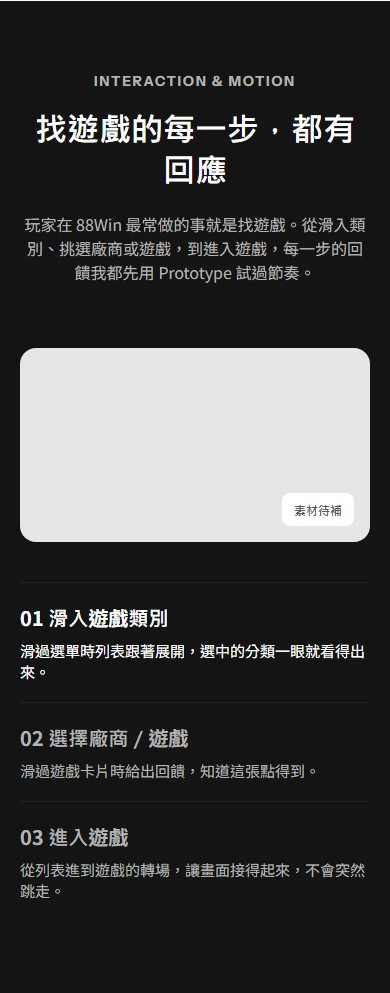
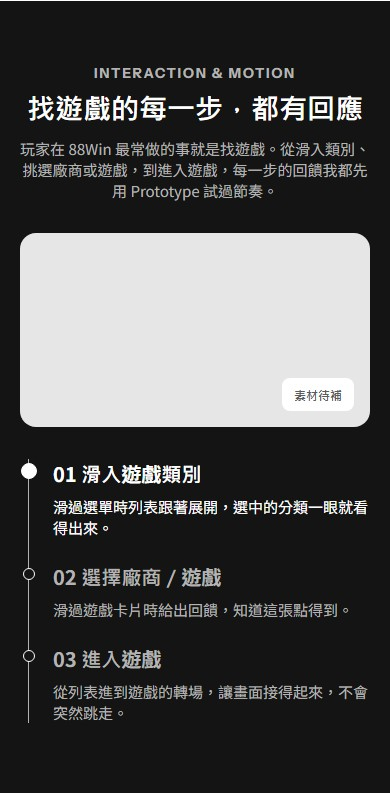
fix: align mobile case template with figma

diff --git a/tests/e2e/smoke.spec.ts b/tests/e2e/smoke.spec.ts
@@ -148,40 +148,20 @@ test('home renders the complete ordered project index', async ({ page }) => {
 });
 
 test('home starts no media requests before load', async ({ page }) => {
-  await page.addInitScript(() => {
-    window.addEventListener(
-      'load',
-      () => {
-        const navigation = performance.getEntriesByType(
-          'navigation',
-        )[0] as PerformanceNavigationTiming;
-        (
-          window as typeof window & { __mediaRequestsBeforeLoad?: string[] }
-        ).__mediaRequestsBeforeLoad = performance
-          .getEntriesByType('resource')
-          .filter(
-            (entry) =>
-              new URL(entry.name).pathname.startsWith('/media/') &&
-              entry.startTime < navigation.loadEventStart,
-          )
-          .map((entry) => entry.name);
-      },
-      { once: true },
-    );
+  let didLoad = false;
+  const mediaRequestsBeforeLoad: string[] = [];
+  page.on('load', () => {
+    didLoad = true;
+  });
+  page.on('request', (request) => {
+    if (!didLoad && new URL(request.url()).pathname.startsWith('/media/')) {
+      mediaRequestsBeforeLoad.push(request.url());
+    }
   });
 
   await page.goto('/');
 
-  expect(
-    await page.evaluate(
-      () =>
-        (
-          window as typeof window & {
-            __mediaRequestsBeforeLoad?: string[];
-          }
-        ).__mediaRequestsBeforeLoad ?? [],
-    ),
-  ).toEqual([]);
+  expect(mediaRequestsBeforeLoad).toEqual([]);
 });
 
 test('home uses the approved copy, links, and card assets', async ({
@@ -510,7 +490,10 @@ test('390 case hero and next project match the mobile Figma geometry', async ({
   const showcaseBox = await showcase.boundingBox();
 
   expect(heroBox?.height).toBeCloseTo(784, 0);
+  await expect(backLink).toHaveCSS('justify-self', 'center');
   expect((backBox?.x ?? 0) + (backBox?.width ?? 0) / 2).toBeCloseTo(195, 0);
+  await expect(hero.locator('h1')).toHaveCSS('font-size', '76px');
+  await expect(hero.locator('h1')).toHaveCSS('letter-spacing', '-3.04px');
   expect(
     await headline.evaluate((node) => node.scrollWidth <= node.clientWidth),
   ).toBe(true);
@@ -557,18 +540,20 @@ test('390 case hero and next project match the mobile Figma geometry', async ({
   ).toBe(true);
 });
 
-test('360 case hero and next project stay within their containers', async ({
+test('360 home and case pages have no horizontal overflow', async ({
   page,
 }, testInfo) => {
   test.skip(testInfo.project.name !== 'webkit-iphone', 'Mobile-only layout.');
   await page.setViewportSize({ width: 360, height: 800 });
-  await page.goto('/work/88win/');
-
-  expect(
-    await page.evaluate(
-      () => document.documentElement.scrollWidth === window.innerWidth,
-    ),
-  ).toBe(true);
+  for (const route of ['/', '/work/88win/']) {
+    await page.goto(route);
+    expect(
+      await page.evaluate(
+        () => document.documentElement.scrollWidth === window.innerWidth,
+      ),
+      `${route} should not overflow horizontally`,
+    ).toBe(true);
+  }
 
   for (const selector of [
     '.case-hero .case-container',
@@ -587,6 +572,49 @@ test('360 case hero and next project stay within their containers', async ({
     });
     expect(failures).toBe(0);
   }
+});
+
+test('390 case sections match the Figma child-frame heights', async ({
+  page,
+}, testInfo) => {
+  test.skip(testInfo.project.name !== 'webkit-iphone', 'Mobile-only layout.');
+  await page.setViewportSize({ width: 390, height: 844 });
+  await page.goto('/work/88win/');
+
+  const expectedSections = [
+    ['Hero', 784],
+    ['Overview', 791],
+    ['Key Screens', 740],
+    ['Mobile / RWD', 717],
+    ['Interaction & Motion', 792],
+    ['Details', 3461],
+    ['Visual Extension', 410],
+    ['Links', 659],
+    ['Next Project', 530],
+  ] as const;
+  const actualHeights = await page
+    .locator('.case-study > .case-section')
+    .evaluateAll((sections) =>
+      sections.map((section) => section.getBoundingClientRect().height),
+    );
+
+  expect(actualHeights).toHaveLength(expectedSections.length);
+  for (const [index, [name, expectedHeight]] of expectedSections.entries()) {
+    const actualHeight = actualHeights[index] ?? Number.NaN;
+    expect(
+      Math.abs(actualHeight - expectedHeight),
+      `${name}: expected ${expectedHeight} ±1 px, received ${actualHeight}`,
+    ).toBeLessThanOrEqual(1);
+  }
+});
+
+test('390 Hwa Fong uses its project title size', async ({ page }, testInfo) => {
+  test.skip(testInfo.project.name !== 'webkit-iphone', 'Mobile-only layout.');
+  await page.setViewportSize({ width: 390, height: 844 });
+  await page.goto('/work/hwa-fong/');
+  const title = page.locator('.case-hero h1');
+  await expect(title).toHaveCSS('font-size', '56px');
+  await expect(title).toHaveCSS('letter-spacing', '-2.24px');
 });
 
 test('1920 case headings and stats stay on one line', async ({

diff --git a/src/styles/case.css b/src/styles/case.css
@@ -114,6 +114,7 @@
 .hero-copy h1 {
   font-family: var(--font-family-display);
   font-size: var(--font-size-case-title);
+  letter-spacing: -0.04em;
   line-height: var(--line-height-body-tight);
 }
 
@@ -724,7 +725,12 @@ figcaption strong {
 }
 
 @media (width < 48rem) {
+  .case-section:where(:not(.tone-media, .case-hero, .next-project)) {
+    padding-block: var(--space-16);
+  }
+
   .case-hero {
+    min-height: min(784px, 201.0256vw);
     padding-block: var(--space-3) 0;
   }
 
@@ -759,6 +765,7 @@ figcaption strong {
 
   .case-hero .hero-showcase {
     width: 100%;
+    margin-block-end: calc(-1 * var(--space-3));
   }
 
   .case-hero .media-frame {
@@ -767,6 +774,22 @@ figcaption strong {
 
   .hero-copy h1 {
     line-height: 1;
+  }
+
+  .hero-copy h1.has-mobile-title-size {
+    font-size: attr(
+      data-title-size-mobile px,
+      var(--font-size-case-title-mobile)
+    );
+  }
+
+  /* Fallback for engines that do not yet support typed attr() values. */
+  .hero-copy h1[data-title-size-mobile='76'] {
+    font-size: 76px;
+  }
+
+  .hero-copy h1[data-title-size-mobile='56'] {
+    font-size: 56px;
   }
 
   .hero-headline {
@@ -870,6 +893,149 @@ figcaption strong {
 
   .swipe-row > figure {
     scroll-snap-align: start;
+  }
+
+  .section-intro {
+    gap: var(--space-2-5);
+    margin-block-end: var(--space-12);
+  }
+
+  .section-intro h2 {
+    font-size: 1.75rem;
+  }
+
+  .section-intro .section-subtitle {
+    font-size: 0.9375rem;
+  }
+
+  .caption-grid,
+  .mobile-panels,
+  .details-grid {
+    margin-block-start: var(--space-5);
+  }
+
+  .overview .case-container {
+    gap: var(--space-6);
+  }
+
+  .overview-story {
+    gap: var(--space-6);
+  }
+
+  .overview article {
+    gap: var(--space-3);
+    padding-block-start: var(--space-4);
+  }
+
+  .story-title {
+    font-size: 1.375rem;
+  }
+
+  figcaption {
+    gap: var(--space-1);
+    padding-block-start: var(--space-3);
+  }
+
+  .mobile-rwd {
+    min-height: min(717px, 183.8462vw);
+    padding-block-end: var(--space-4);
+  }
+
+  .interaction-motion .section-intro {
+    margin-block-end: var(--space-8);
+  }
+
+  .interaction-motion motion-steps {
+    gap: var(--space-8);
+  }
+
+  .details .section-intro {
+    margin-block-end: var(--space-10);
+  }
+
+  .details-grid {
+    gap: var(--space-8);
+  }
+
+  .detail-card figcaption {
+    padding: var(--space-6);
+  }
+
+  .case-links .section-intro {
+    margin-block-end: var(--space-9);
+  }
+
+  .link-cards {
+    gap: var(--space-3);
+  }
+
+  .link-card {
+    gap: var(--space-3);
+  }
+
+  .overview {
+    min-height: min(791px, 202.8205vw);
+  }
+
+  .key-screens {
+    min-height: min(740px, 189.7436vw);
+  }
+
+  .key-screens .section-intro {
+    margin-block-end: var(--space-8);
+  }
+
+  .key-screens .caption-grid {
+    margin-block-start: var(--space-4);
+  }
+
+  .interaction-motion {
+    min-height: min(792px, 203.0769vw);
+  }
+
+  .details {
+    min-height: min(3461px, 887.4359vw);
+  }
+
+  .case-links {
+    min-height: min(659px, 168.9744vw);
+  }
+
+  .motion-tabs {
+    position: relative;
+    margin-inline-start: var(--space-2);
+    border-inline-start: var(--header-border-width) solid
+      var(--color-text-on-inverse-muted);
+  }
+
+  .motion-tabs button {
+    position: relative;
+    padding: 0 0 var(--space-6) var(--space-6);
+    border-block-start: 0;
+  }
+
+  .motion-tabs button:last-child {
+    padding-block-end: 0;
+  }
+
+  .motion-tabs button::before {
+    position: absolute;
+    inset-block-start: 0.375rem;
+    inset-inline-start: calc(var(--size-motion-marker) / -2);
+    width: var(--size-motion-marker);
+    height: var(--size-motion-marker);
+    border: var(--header-border-width) solid var(--color-text-on-inverse);
+    border-radius: var(--radius-pill);
+    background: var(--color-bg-inverse);
+    content: '';
+  }
+
+  .motion-tabs button[aria-selected='true']::before {
+    inset-block-start: 0.25rem;
+    inset-inline-start: -0.5rem;
+    width: var(--space-4);
+    height: var(--space-4);
+    background: var(--color-text-on-inverse);
   }
 
   .hero-showcase.layout-isometric,

diff --git a/src/content.config.ts b/src/content.config.ts
@@ -139,6 +139,7 @@ const projects = defineCollection({
       hero: z.object({
         eyebrow: z.string().min(1),
         title: z.string().min(1),
+        titleSizeMobile: z.number().positive().optional(),
         headline: z.string().min(1),
         subtitle: z.string().min(1),
         stats: z.tuple([stat, stat, stat, stat]),

diff --git a/docs/HANDOFF.md b/docs/HANDOFF.md
@@ -2,8 +2,8 @@
 
 > Every agent reads this first and updates it before ending a session in which project state changed.
 
-## Status (2026-10-31)
-- **Phase**: M1 Home is done (PR #10). **M2 (case template + 88Win) is done (PR #14)**. The fidelity follow-up merged (PR #17). **M3 Hwa Fong Tire is in review** on `feat/m3-hwa-fong`.
+## Status (2026-11-01)
+- **Phase**: M1 Home is done (PR #10). **M2 (case template + 88Win) is done (PR #14)**. The first fidelity follow-up merged (PR #17). **M3 Hwa Fong Tire is done (PR #21)**, and play-once video behavior is done (PR #23). The 390 case-template fidelity follow-up is in review on `fix/case-template-fidelity`.
 - **Process change (2026-10-31)**: Claude writes a page spec sheet before implementation, and every UI PR includes a Figma vs page table ([`docs/specs/README.md`](specs/README.md)). The Product Owner's media export list is [`docs/ASSETS.md`](ASSETS.md).
 - **Where to see the latest site**: **`https://staging-portfolio-2026.kimbluesoul.workers.dev/`**. `staging` mirrors `main` automatically on every merge (ADR-0011 amendment).
 - **Production** (`https://portfolio-2026.kimbluesoul.workers.dev/`) intentionally still shows the M0 build. Production deploys are blocked until no `TODO(CONTENT)` remains (Product Owner decision A, 2026-10-30). Until launch, **a red "Workers Builds" check on `main` is expected and is not a bug.**
@@ -18,10 +18,8 @@ During M1 the roles were temporarily swapped: Claude implemented the review fixe
 **ChatGPT, before starting M2:** your local checkout (`Documents/Codex/2026-10-29/.../work/portfolio-2026`) may still hold the old uncommitted M1 files. Run `git fetch origin`, `git checkout main`, and `git reset --hard origin/main` (or use a fresh clone). A backup of those files exists in `%LOCALAPPDATA%\Temp\pf-backup`.
 
 ## Next owner
-1. **Claude**: review the Hwa Fong Tire content PR (`feat/m3-hwa-fong`). Its media remains `pending`; the PR records the template-level visual differences without changing architecture.
-2. **ChatGPT** (after Hwa Fong, separate PR `feat/video-play-once`): implement ADR-0013 / ARCHITECTURE v1.7. Change `<loop-video>` and `<motion-steps>` to play once on view, Home cards to the delivered videos (already in `public/media/*/card*.mp4` with posters), and the 88Win featured composition (§9.5). Replace the old "never plays" E2E test (§16.2).
-3. **ChatGPT** (after the video PR, `fix/case-template-fidelity`): the template items from the PR #17 / #21 reviews. Implement `hero.titleSizeMobile` and −0.04em title tracking (ARCHITECTURE §10 v1.8; values in the spec sheets: 88Win 76, Hwa Fong 56), keep the 390 back link centred, add the mobile Motion vertical rail, and size 390 section spacing from the `475:953` child frames. Add a 360 × 800 no-overflow E2E for the case page.
-4. **Product Owner**: export the 88Win media listed in [`docs/ASSETS.md`](ASSETS.md) whenever convenient, put them in one folder, and tell Claude, who checks them and opens an assets PR. The build's pending-asset report shows what is still missing.
+1. **Claude**: review `fix/case-template-fidelity` against ARCHITECTURE v1.9, the 88Win `475:953` child frames, and the PR screenshot table.
+2. **Product Owner**: export the 88Win media listed in [`docs/ASSETS.md`](ASSETS.md) whenever convenient, put them in one folder, and tell Claude, who checks them and opens an assets PR. The build's pending-asset report shows what is still missing.
 
 ## M1 summary
 - **Content**: home copy, tags, links, and SEO are verbatim from `docs/content/home-copy.md`. The 7 remaining `TODO(CONTENT)` markers are case-study fields (M2 / M3).
@@ -82,7 +80,8 @@ During M1 the roles were temporarily swapped: Claude implemented the review fixe
 - Architecture v1.5 media: Hero uses one `hero-showcase.jpg` composite (`1920 / 820`, top-aligned); Visual Extension uses one `visual-mosaic.jpg`; motion slots use `960 / 532`; every Details card has desktop and mobile PNG media rendered through `<picture>` at the documented breakpoint.
 - The pending-asset report lists all 30 88Win deliverables from [`docs/ASSETS.md`](ASSETS.md), including `key-main-poster.jpg` and the three motion posters. `check-media.mjs` fails if an 88Win pending filename is not documented.
 - Visual QA: the 18 section screenshots are in [`docs/screenshots/88win/`](screenshots/88win/) and correspond one-to-one with [`docs/specs/88win/`](specs/88win/). The capture script hides the persistent site chrome so each image compares only the matching Figma section.
-- Fidelity follow-up: Next Project uses Figma's `-0.04em` display tracking and `1440 / 741` preview; motion is `960 × 532` with its timeline at desktop x=1280. At 390 px, Hero is 784 px with a full-bleed `390 × 312` showcase, stats are a 110 px 2 × 2 grid, Next Project is 530 px with a 64 px arrow, Details media keeps 20 px side margins, and both swipe rows bleed to the viewport with their first item at x=20.
+- Fidelity follow-up: Next Project uses Figma's `-0.04em` display tracking and `1440 / 741` preview; motion is `960 × 532` with its timeline at desktop x=1280. At 390 px, Hero is 784 px with a full-bleed `390 × 312` showcase clipped by the child frame at its lower edge, stats are a 110 px 2 × 2 grid, Next Project is 530 px with a 64 px arrow, Details media keeps 20 px side margins, and both swipe rows bleed to the viewport with their first item at x=20.
+- Case-template fidelity follow-up: `hero.titleSizeMobile` supplies the 88Win 76 px and Hwa Fong 56 px mobile title sizes without inline styles; case titles use `-0.04em` tracking, the 390 back link remains centred, and mobile Motion uses a vertical step rail. The 88Win 390 child frames measure 784 / 791 / 740 / 717 / 792 / 3461 / 410 / 659 / 530 px (each E2E-gated at ±1 px). Chromium reports a 9454 px full document, or 9388 px without the 66 px global site header, versus the 9365 px Figma case canvas. Full-page 1920 and 390 captures are in the 88Win and Hwa Fong screenshot folders.
 - `check-media.mjs` now validates pending filenames for every project that has its own project section in [`docs/ASSETS.md`](ASSETS.md), rather than special-casing 88Win.
 - Validation: `CI=true pnpm verify` passes (51 unit tests; 30 E2E tests passed with 4 intentional project-specific skips; all 9 Lighthouse runs passed).
 
@@ -93,8 +92,8 @@ During M1 the roles were temporarily swapped: Claude implemented the review fixe
 | Architecture v1.1 / v1.2 | Done (PR #3, #11) |
 | M0 Bootstrap | Done (PR #2) |
 | M1 Home | **Done (PR #10)** |
-| M2 Case template + 88Win | **Done (PR #14); fidelity follow-up in review** |
-| M3 Remaining case studies | **In progress**: Hwa Fong implementation in review |
+| M2 Case template + 88Win | **Done (PR #14); 390 template fidelity follow-up in review** |
+| M3 Remaining case studies | **In progress**: Hwa Fong done (PR #21) |
 | M4 Resume | Not started |
 | M5 Launch hardening | Not started |
 
